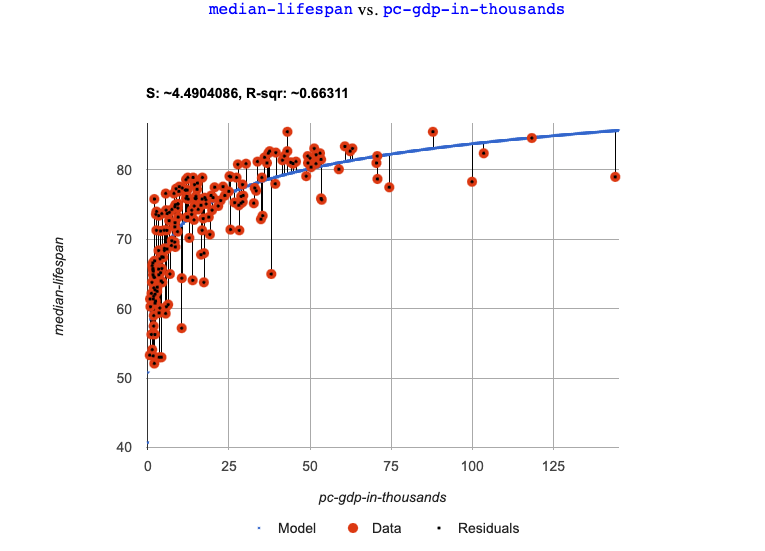
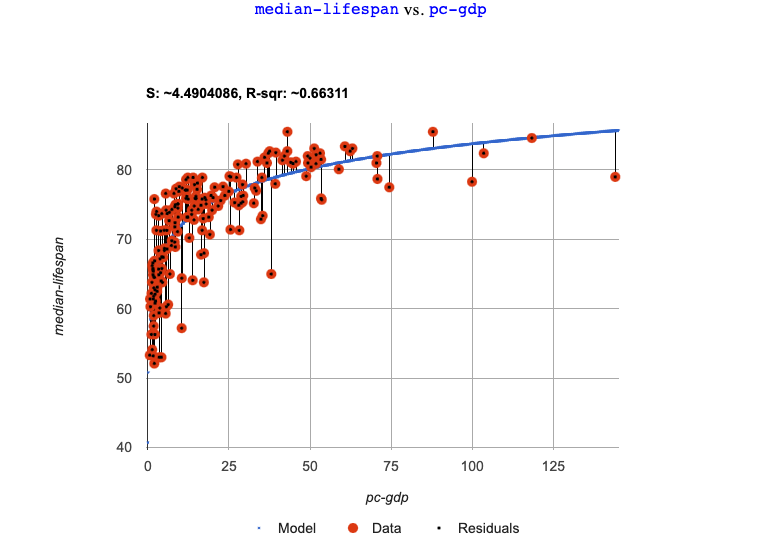
[Alg2] replace pc-gdp-in-thousands with pc-gdp, and fix starter file link

Changed region(s): [[0.2706, 0.0, 0.7516, 0.0309], [0.4209, 0.8947, 0.6013, 0.9256]]

diff --git a/shared/langs/en-us/starter-files.js b/shared/langs/en-us/starter-files.js
@@ -1011,7 +1011,7 @@ const Alg2 = {
   "alg2-countries": {
     "title": "Countries of the World Starter File",
     "pyret": {
-      "url": "https://code.pyret.org/editor#share=1x5tmPRBPnP8Ysi8n75HStOHmh6fukX6v"
+      "url": "https://code.pyret.org/editor#share=1qXYu57_noEwzYOL3M4YxqzW6mIcas88x"
     }
   },
   "alg2-log-desmos" : {
